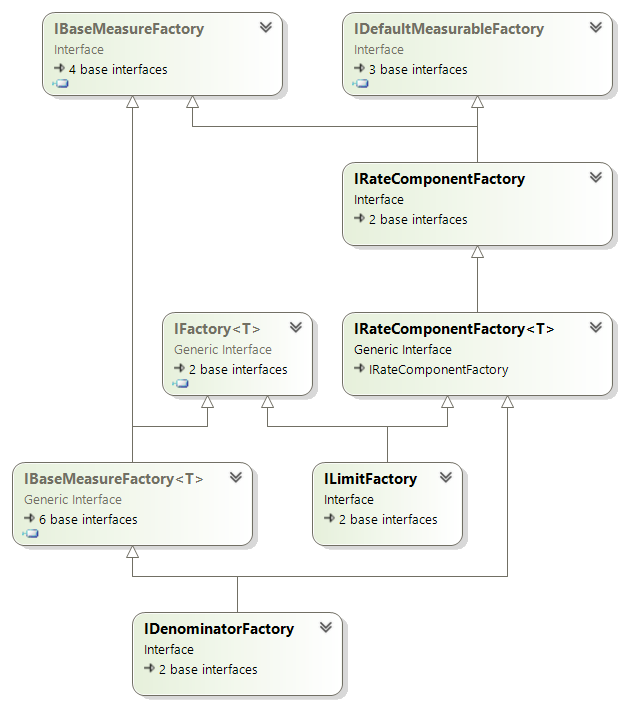
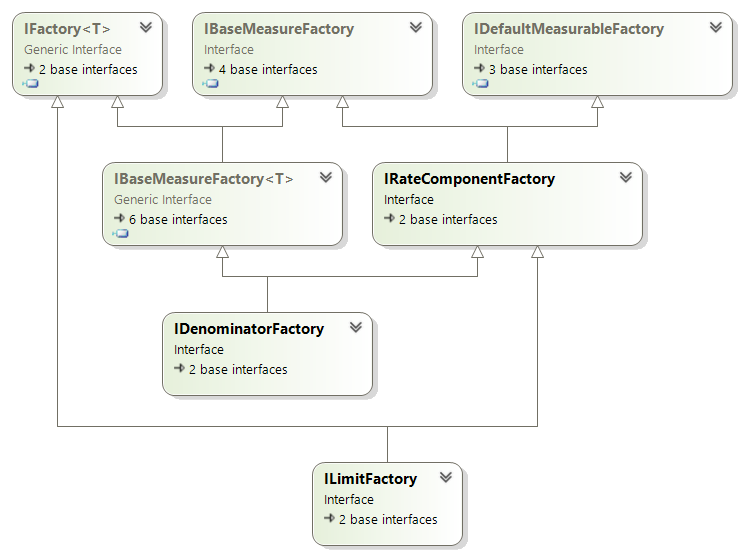
RateComponents factories

Changed region(s): [[0.0, 0.0, 1.0, 1.0], [0.1827, 0.214, 0.2131, 0.2446]]

diff --git a/RateComponents/Factories/Implementations/RateComponentFactory.cs b/RateComponents/Factories/Implementations/RateComponentFactory.cs
@@ -1,79 +1,57 @@
-namespace CsabaDu.FooVaria.RateComponents.Factories.Implementations
+namespace CsabaDu.FooVaria.RateComponents.Factories.Implementations;
+
+public abstract class RateComponentFactory : IRateComponentFactory
 {
-    public abstract class RateComponentFactory : IRateComponentFactory
+    #region Constructors
+    private protected RateComponentFactory(IMeasurementFactory measurementFactory)
     {
-        #region Constructors
-        private protected RateComponentFactory(IMeasurementFactory measurementFactory)
-        {
-            MeasurementFactory = NullChecked(measurementFactory, nameof(measurementFactory));
-        }
-        #endregion
+        MeasurementFactory = NullChecked(measurementFactory, nameof(measurementFactory));
+    }
+    #endregion
 
-        #region Properties
-        public IMeasurementFactory MeasurementFactory { get; init; }
-        public TypeCode QuantityTypeCode => Type.GetTypeCode(DefaultRateComponentQuantity.GetType());
+    #region Properties
+    public IMeasurementFactory MeasurementFactory { get; init; }
+    public TypeCode QuantityTypeCode => Type.GetTypeCode(DefaultRateComponentQuantity.GetType());
 
-        #region Abstract properties
-        public abstract object DefaultRateComponentQuantity {  get; }
-        public abstract RateComponentCode RateComponentCode { get; }
-        #endregion
-        #endregion
+    #region Abstract properties
+    public abstract object DefaultRateComponentQuantity {  get; }
+    public abstract RateComponentCode RateComponentCode { get; }
+    #endregion
+    #endregion
 
-        #region Public methods
-        #region Abstract methods
-        public abstract IBaseMeasure CreateBaseMeasure(IBaseMeasurement baseMeasurement, ValueType quantity);
-        public abstract IMeasurable? CreateDefault(MeasureUnitCode measureUnitCode);
-        #endregion
-        #endregion
+    #region Public methods
+    #region Abstract methods
+    public abstract IBaseMeasure CreateBaseMeasure(IBaseMeasurement baseMeasurement, ValueType quantity);
+    public abstract IMeasurable? CreateDefault(MeasureUnitCode measureUnitCode);
+    #endregion
+    #endregion
 
-        #region Protected methods
-        protected object ConvertQuantity(ValueType quantity)
-        {
-            string paramName = nameof(quantity);
-            Type quantityType = NullChecked(quantity, paramName).GetType();
+    #region Protected methods
+    protected object ConvertQuantity(ValueType quantity)
+    {
+        string paramName = nameof(quantity);
+        Type quantityType = NullChecked(quantity, paramName).GetType();
 
-            if (Type.GetTypeCode(quantityType) == QuantityTypeCode) return quantity;
+        if (Type.GetTypeCode(quantityType) == QuantityTypeCode) return quantity;
 
-            object? converted = NullChecked(quantity, paramName).ToQuantity(QuantityTypeCode);
+        object? converted = NullChecked(quantity, paramName).ToQuantity(QuantityTypeCode);
 
-            if (converted != null) return converted;
+        if (converted != null) return converted;
 
-            throw ArgumentTypeOutOfRangeException(paramName, quantity);
-        }
-
-        #region Static methods
-        protected static T? GetStoredRateComponent<T>(T? other, HashSet<T> rateComponentSet)
-            where T : class, IRateComponent
-        {
-            bool exists = rateComponentSet.Contains(NullChecked(other, nameof(other)))
-                || rateComponentSet.Add(other!);
-
-            return exists && rateComponentSet.TryGetValue(other!, out T? stored) ?
-                stored
-                : null;
-        }
-        #endregion
-        #endregion
+        throw ArgumentTypeOutOfRangeException(paramName, quantity);
     }
 
-    public abstract class RateComponentFactory<T> : RateComponentFactory, IRateComponentFactory<T>
-        where T : class, IBaseMeasure
+    #region Static methods
+    protected static T? GetStoredRateComponent<T>(T? other, HashSet<T> rateComponentSet)
+        where T : class, IRateComponent
     {
-        #region Constructors
-        private protected RateComponentFactory(IMeasurementFactory measurementFactory) : base(measurementFactory)
-        {
-        }
-        #endregion
+        bool exists = rateComponentSet.Contains(NullChecked(other, nameof(other)))
+            || rateComponentSet.Add(other!);
 
-        #region Public methods
-        #region Abstract methods
-        public abstract T Create(string name, ValueType quantity);
-        public abstract T Create(Enum measureUnit, ValueType quantity);
-        public abstract T? Create(Enum measureUnit, decimal exchangeRate, ValueType quantity, string customName);
-        public abstract T? Create(string customName, MeasureUnitCode measureUnitCode, decimal exchangeRate, ValueType quantity);
-        public abstract T Create(IBaseMeasure baseMeasure);
-        public abstract T CreateNew(T other);
-        #endregion
-        #endregion
+        return exists && rateComponentSet.TryGetValue(other!, out T? stored) ?
+            stored
+            : null;
     }
+    #endregion
+    #endregion
 }

diff --git a/RateComponents/Factories/Implementations/DenominatorFactory.cs b/RateComponents/Factories/Implementations/DenominatorFactory.cs
@@ -1,6 +1,6 @@
 namespace CsabaDu.FooVaria.RateComponents.Factories.Implementations;
 
-public sealed class DenominatorFactory : RateComponentFactory<IDenominator>, IDenominatorFactory
+public sealed class DenominatorFactory : RateComponentFactory, IDenominatorFactory
 {
     #region Constructors
     #region Static constructor
@@ -56,20 +56,19 @@ public sealed class DenominatorFactory : RateComponentFactory<IDenominator>, IDe
         return GetOrCreateStoredDenominator(measureUnit, quantity);
     }
 
-    #region Override methods
-    public override IDenominator Create(string name, ValueType quantity)
+    public IDenominator Create(string name, ValueType quantity)
     {
         IMeasurement measurement = MeasurementFactory.Create(name);
 
         return GetOrCreateStoredDenominator(measurement, quantity);
     }
 
-    public override IDenominator Create(Enum measureUnit, ValueType quantity)
+    public IDenominator Create(Enum measureUnit, ValueType quantity)
     {
         return GetOrCreateStoredDenominator(measureUnit, quantity);
     }
 
-    public override IDenominator? Create(Enum measureUnit, decimal exchangeRate, ValueType quantity, string customName)
+    public IDenominator? Create(Enum measureUnit, decimal exchangeRate, ValueType quantity, string customName)
     {
         IMeasurement? measurement = MeasurementFactory.Create(measureUnit, exchangeRate, customName);
 
@@ -78,7 +77,7 @@ public sealed class DenominatorFactory : RateComponentFactory<IDenominator>, IDe
         return GetOrCreateStoredDenominator(measurement, quantity);
     }
 
-    public override IDenominator? Create(string customName, MeasureUnitCode measureUnitCode, decimal exchangeRate, ValueType quantity)
+    public IDenominator? Create(string customName, MeasureUnitCode measureUnitCode, decimal exchangeRate, ValueType quantity)
     {
         IMeasurement? measurement = MeasurementFactory.Create(customName, measureUnitCode, exchangeRate);
 
@@ -87,7 +86,7 @@ public sealed class DenominatorFactory : RateComponentFactory<IDenominator>, IDe
         return GetOrCreateStoredDenominator(measurement, quantity);
     }
 
-    public override IDenominator Create(IBaseMeasure baseMeasure)
+    public IDenominator Create(IBaseMeasure baseMeasure)
     {
         if (NullChecked(baseMeasure, nameof(baseMeasure)) is IDenominator denominator) return CreateNew(denominator);
 
@@ -97,6 +96,12 @@ public sealed class DenominatorFactory : RateComponentFactory<IDenominator>, IDe
         return GetOrCreateStoredDenominator(measureUnit, quantity);
     }
 
+    public IDenominator CreateNew(IDenominator other)
+    {
+        return GetStoredRateComponent(other, DenominatorSet) ?? throw new InvalidOperationException(null);
+    }
+
+    #region Override methods
     public override IDenominator CreateBaseMeasure(IBaseMeasurement baseMeasurement, ValueType quantity)
     {
         Enum measureUnit = NullChecked(baseMeasurement, nameof(baseMeasurement)).GetMeasureUnit();
@@ -111,11 +116,6 @@ public sealed class DenominatorFactory : RateComponentFactory<IDenominator>, IDe
         if (measurement == null) return null;
 
         return GetOrCreateStoredDenominator(measurement);
-    }
-
-    public override IDenominator CreateNew(IDenominator other)
-    {
-        return GetStoredRateComponent(other, DenominatorSet) ?? throw new InvalidOperationException(null);
     }
     #endregion
     #endregion

diff --git a/RateComponents/Factories/ILimitFactory.cs b/RateComponents/Factories/ILimitFactory.cs
@@ -1,6 +1,6 @@
 namespace CsabaDu.FooVaria.RateComponents.Factories;
 
-public interface ILimitFactory : IRateComponentFactory<ILimit>, IFactory<ILimit>
+public interface ILimitFactory : IRateComponentFactory, IFactory<ILimit>
 {
     ILimit Create(string name, ValueType quantity, LimitMode limitMode);
     ILimit Create(Enum measureUnit, ValueType quantity, LimitMode limitMode);

diff --git a/RateComponents/Factories/IDenominatorFactory.cs b/RateComponents/Factories/IDenominatorFactory.cs
@@ -1,6 +1,6 @@
 namespace CsabaDu.FooVaria.RateComponents.Factories;
 
-public interface IDenominatorFactory : IRateComponentFactory<IDenominator>, IBaseMeasureFactory<IDenominator>
+public interface IDenominatorFactory : IRateComponentFactory, IBaseMeasureFactory<IDenominator>
 {
     IDenominator Create(Enum measureUnit);
     IDenominator Create(string name);

diff --git a/RateComponents/Types/Implementations/RateComponent.cs b/RateComponents/Types/Implementations/RateComponent.cs
@@ -91,11 +91,6 @@
         {
         }
 
-        public override IRateComponentFactory<TSelf> GetFactory()
-        {
-            return (IRateComponentFactory<TSelf>)Factory;
-        }
-
         public abstract TSelf GetDefault();
 
         #region Protected methods
